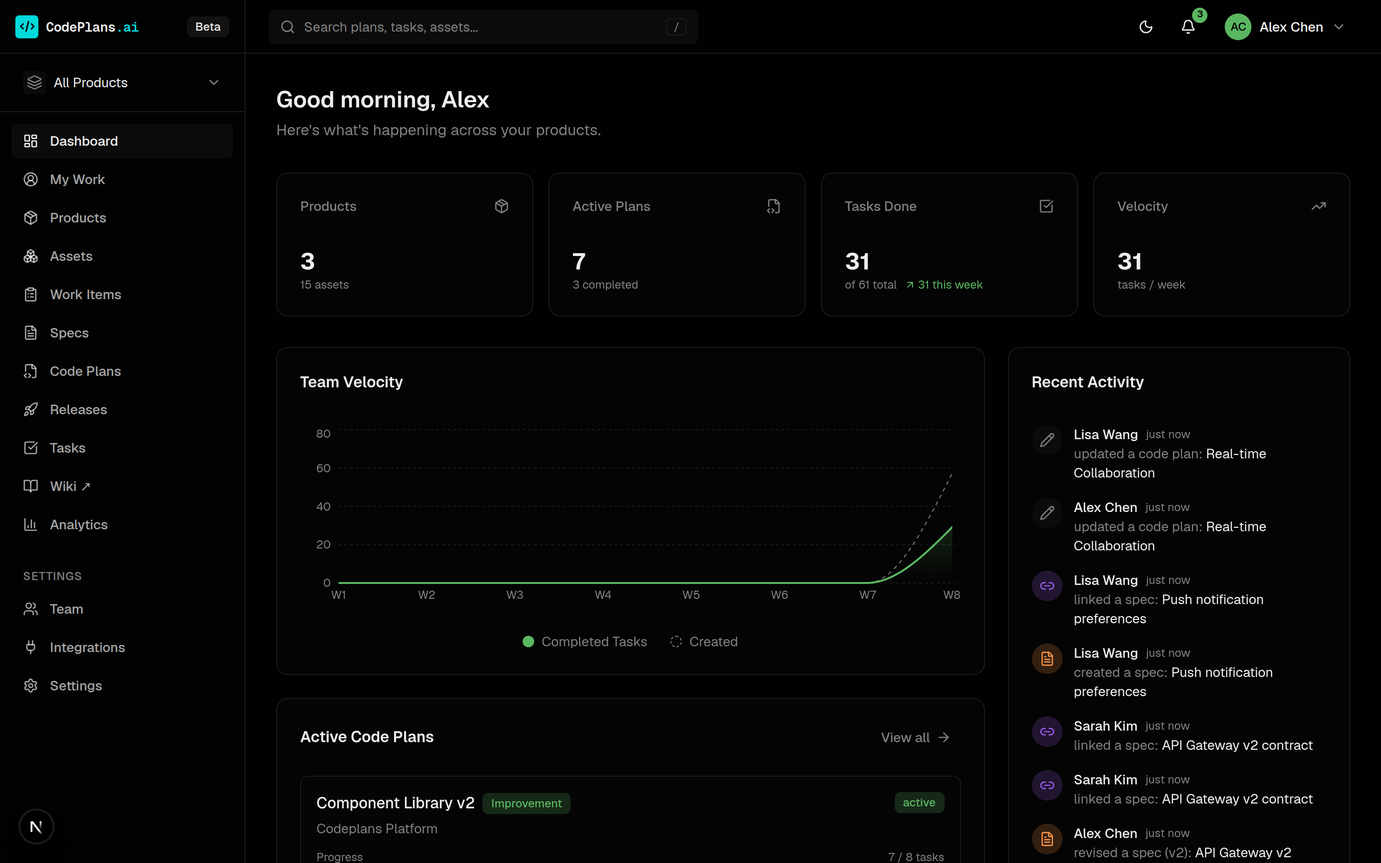
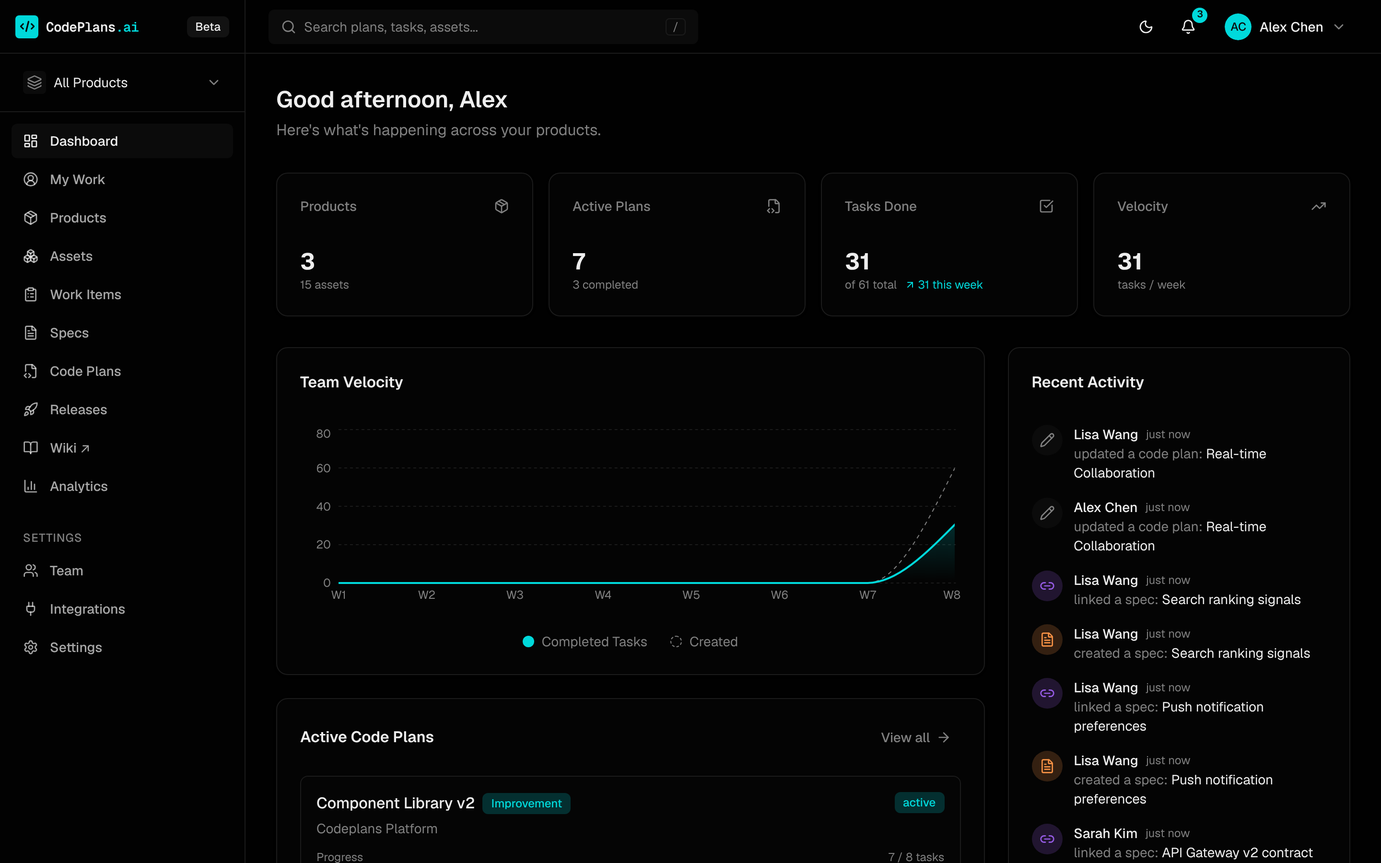
Docs site: search, agent skills, password resets; refresh key screenshots
Brings the GitHub Pages site up to date with what shipped since 10 October:

- Overview: a Search section (palette on / or Cmd-K, results page, the
  search MCP tool) with a new screenshot; the dashboard hero is retaken
  with the teal accent.
- AI agents: an Agent skills section with both install paths (Claude Code
  plugin, npx skills add) and what each skill does; search in the tools.
- Self-host: a Signing in panel (8-character minimum, forgot password,
  sign-out everywhere on a password change) with the new sign-in page; the
  AUTH_URL row explains AUTH_TRUST_HOST for several domains; RESEND_API_KEY
  lists what it sends. The first-run setup screenshot is retaken.
- Deploy: troubleshooting for several domains and for being signed out
  after a password change.
- Docs: an Agent Skills guide card and roadmap rows for search, agent
  skills and password resets.
- The MCP server has 75 tools since search; the site, README, AI agents
  guide and concepts guide said 74.

Claude-Session: https://claude.ai/code/session_01S4TnKMMhfyax9SrxJkMcDM

diff --git a/docs/index.html b/docs/index.html
@@ -44,7 +44,8 @@
 <div class="loop"><div class="loop-step"><h3>Capture demand</h3><p>Features, bugs and debt land on the assets they touch, natively or mirrored from your tracker.</p><a href="plan.html">Work items →</a></div><div class="loop-step"><h3>Plan the change</h3><p>A code plan targets assets, links the specs it builds on, and breaks into tasks.</p><a href="plan.html">Code plans →</a></div><div class="loop-step"><h3>Review before effort</h3><p>Code owners and architects approve the plan and its specs at a pinned version.</p><a href="reviews.html">Reviews →</a></div><div class="loop-step"><h3>Deliver and ship</h3><p>PRs, tasks and releases track delivery; each shipped capability records the spec version it implemented.</p><a href="assets.html">Asset record →</a></div><div class="loop-step"><h3>Keep people in the loop</h3><p>My Work, the bell, email and Slack tell each person what needs them, and why.</p><a href="my-work.html">My Work →</a></div></div></div></section><section class="section"><div class="container"><div class="section-label">Explore</div>
 <h2>What's inside</h2>
 <p class="section-sub">Screenshots throughout come from the demo workspace (<code>pnpm db:seed-demo</code>). Click any screenshot to see it full size.</p>
-<div class="explore-grid"><a class="explore-card" href="plan.html"><img src="screenshots/plans.png" alt="" loading="lazy" width="1440" height="900"><div class="body"><div class="tag">Plan & deliver</div><h3>Plans, work items and releases</h3><p>Coordinate changes across assets, track the demand behind them, and ship them together with per-asset versions.</p><div class="go">Explore →</div></div></a><a class="explore-card" href="assets.html"><img src="screenshots/asset-map.png" alt="" loading="lazy" width="1440" height="900"><div class="body"><div class="tag">Assets</div><h3>The Atlas and the asset record</h3><p>A live system map, a version-structured history and a capabilities register built from delivered work.</p><div class="go">Explore →</div></div></a><a class="explore-card" href="specs.html"><img src="screenshots/spec-history.png" alt="" loading="lazy" width="1440" height="900"><div class="body"><div class="tag">Specs & Wiki</div><h3>Versioned specs and a product wiki</h3><p>Author specs in CodePlans, see every revision and diff, and read the whole product as a connected library.</p><div class="go">Explore →</div></div></a><a class="explore-card" href="reviews.html"><img src="screenshots/spec-review.png" alt="" loading="lazy" width="1440" height="900"><div class="body"><div class="tag">Reviews</div><h3>Reviews, comments and responsibilities</h3><p>Code owners review plans before effort starts. Approvals pin to a version, and discussion anchors to the text.</p><div class="go">Explore →</div></div></a><a class="explore-card" href="my-work.html"><img src="screenshots/my-work.png" alt="" loading="lazy" width="1440" height="900"><div class="body"><div class="tag">My Work</div><h3>My Work and notifications</h3><p>An inbox shaped by your responsibilities, a bell, and email or Slack delivery your admins control.</p><div class="go">Explore →</div></div></a><a class="explore-card" href="agents.html"><img src="screenshots/asset-record.png" alt="" loading="lazy" width="1440" height="900"><div class="body"><div class="tag">AI agents</div><h3>Built for coding agents</h3><p>An MCP server with 74 tools: agents read the map, write the record, and join reviews and discussion.</p><div class="go">Explore →</div></div></a></div></div></section><section class="section"><div class="container"><div class="section-label">Get started</div>
+<div class="explore-grid"><a class="explore-card" href="plan.html"><img src="screenshots/plans.png" alt="" loading="lazy" width="1440" height="900"><div class="body"><div class="tag">Plan & deliver</div><h3>Plans, work items and releases</h3><p>Coordinate changes across assets, track the demand behind them, and ship them together with per-asset versions.</p><div class="go">Explore →</div></div></a><a class="explore-card" href="assets.html"><img src="screenshots/asset-map.png" alt="" loading="lazy" width="1440" height="900"><div class="body"><div class="tag">Assets</div><h3>The Atlas and the asset record</h3><p>A live system map, a version-structured history and a capabilities register built from delivered work.</p><div class="go">Explore →</div></div></a><a class="explore-card" href="specs.html"><img src="screenshots/spec-history.png" alt="" loading="lazy" width="1440" height="900"><div class="body"><div class="tag">Specs & Wiki</div><h3>Versioned specs and a product wiki</h3><p>Author specs in CodePlans, see every revision and diff, and read the whole product as a connected library.</p><div class="go">Explore →</div></div></a><a class="explore-card" href="reviews.html"><img src="screenshots/spec-review.png" alt="" loading="lazy" width="1440" height="900"><div class="body"><div class="tag">Reviews</div><h3>Reviews, comments and responsibilities</h3><p>Code owners review plans before effort starts. Approvals pin to a version, and discussion anchors to the text.</p><div class="go">Explore →</div></div></a><a class="explore-card" href="my-work.html"><img src="screenshots/my-work.png" alt="" loading="lazy" width="1440" height="900"><div class="body"><div class="tag">My Work</div><h3>My Work and notifications</h3><p>An inbox shaped by your responsibilities, a bell, and email or Slack delivery your admins control.</p><div class="go">Explore →</div></div></a><a class="explore-card" href="agents.html"><img src="screenshots/asset-record.png" alt="" loading="lazy" width="1440" height="900"><div class="body"><div class="tag">AI agents</div><h3>Built for coding agents</h3><p>An MCP server with 75 tools: agents read the map, write the record, and join reviews and discussion.</p><div class="go">Explore →</div></div></a></div></div></section><section class="section"><div class="container"><div class="feature-row" style="border-top:0;padding:0"><div class="row-text"><div class="section-label">Search</div><h2>Find anything in a keystroke</h2><p>Press <code>/</code> or <code>⌘K</code> anywhere to search products, assets, plans, tasks, work items, specs and releases across every product you can see. Every word must match; quote a phrase to keep it together.</p><p><strong>See all results</strong> opens a full page with counts and a tab per type, and agents get the same search as the <code>search</code> MCP tool.</p></div><div class="row-media"><figure class="shot "><a href="screenshots/search.png" aria-label="Open full size: The search palette showing an asset, a plan, a task, work items and a spec matching auth"><img src="screenshots/search.png" alt="The search palette showing an asset, a plan, a task, work items and a spec matching auth" width="2880" height="1800" loading="lazy"></a></figure></div></div></div></section>
+<section class="section"><div class="container"><div class="section-label">Get started</div>
 <h2>Up and running in minutes</h2>
 <p class="section-sub">Local SQLite mode needs no cloud account and no API keys.</p>
 <div class="code-block">

diff --git a/docs/agents.html b/docs/agents.html
@@ -4,7 +4,7 @@
   <meta charset="UTF-8" />
   <meta name="viewport" content="width=device-width, initial-scale=1.0" />
   <title>CodePlans — AI agents</title>
-  <meta name="description" content="The CodePlans MCP server: 74 tools for coding agents." />
+  <meta name="description" content="The CodePlans MCP server: 75 tools for coding agents." />
   <link rel="stylesheet" href="assets/site.css" />
 </head>
 <body>
@@ -18,10 +18,10 @@
     </div>
   </div>
 </nav>
-<section class="page-hero"><div class="container"><div class="crumb"><a href="index.html">CodePlans</a> / AI agents</div><h1>The system of record your coding agents read — and write</h1><p class="hero-sub">CodePlans records what shipped, where and why. Connect a coding agent over MCP (74 tools) and the record builds itself as the work happens.</p><div class="links"><a href="https://github.com/SylonZero/CodePlans/blob/master/docs/guides/ai-agents.md">AI agents guide</a><a href="https://github.com/SylonZero/CodePlans/blob/master/docs/specs/mcp-server-spec.md">MCP server spec</a></div></div></section>
+<section class="page-hero"><div class="container"><div class="crumb"><a href="index.html">CodePlans</a> / AI agents</div><h1>The system of record your coding agents read — and write</h1><p class="hero-sub">CodePlans records what shipped, where and why. Connect a coding agent over MCP (75 tools) and the record builds itself as the work happens.</p><div class="links"><a href="https://github.com/SylonZero/CodePlans/blob/master/docs/guides/ai-agents.md">AI agents guide</a><a href="https://github.com/SylonZero/CodePlans/blob/master/docs/specs/mcp-server-spec.md">MCP server spec</a></div></div></section>
 <main>
 <section class="section"><div class="container"><div class="feature-grid">
-  <div class="feature-card"><div class="feature-icon" style="background:rgba(96,165,250,.12)">📖</div><h3>Agents read the map</h3><p>Before touching an asset, an agent pulls its history, open debt, dependencies, active specs and delivery coverage. <code>get_asset_record</code> separates current intent from delivered capabilities.</p></div>
+  <div class="feature-card"><div class="feature-icon" style="background:rgba(96,165,250,.12)">📖</div><h3>Agents read the map</h3><p>Before touching an asset, an agent pulls its history, open debt, dependencies, active specs and delivery coverage. <code>get_asset_record</code> separates current intent from delivered capabilities, and <code>search</code> finds any product, asset, plan, task, work item, spec or release by text.</p></div>
   <div class="feature-card"><div class="feature-icon" style="background:rgba(251,146,60,.12)">✍</div><h3>Agents write the record</h3><p>As plans complete, agents mark tasks done, update branch and PR status, file the debt they discover, and record a design note on each asset they changed, with an agent badge.</p></div>
   <div class="feature-card"><div class="feature-icon" style="background:rgba(74,222,128,.12)">💬</div><h3>Agents join the loop</h3><p>Agents request reviews, read and add comments, and start a session with <code>get_my_work</code>: "what's waiting on me?". There is deliberately no tool to approve a review.</p></div>
   <div class="feature-card"><div class="feature-icon" style="background:rgba(167,139,250,.12)">📝</div><h3>AI drafts, humans decide</h3><p>With an Anthropic API key configured, CodePlans drafts release notes and design notes from delivered work. Drafts always land in an editor; nothing is auto-published.</p></div>
@@ -32,7 +32,25 @@
   <div><span class="cmd">claude mcp add</span> <span class="arg">--transport http codeplans http://localhost:3000/api/mcp/mcp \</span></div>
   <div><span class="arg">&nbsp;&nbsp;--header "Authorization: Bearer cpk_your_key"</span></div>
 </div>
-<p style="margin-top:16px">See the <a href="https://github.com/SylonZero/CodePlans/blob/master/docs/guides/ai-agents.md">AI agents guide</a> for the 74-tool catalog, and the <a href="https://github.com/SylonZero/CodePlans/blob/master/docs/guides/logging-work.md">/codeplans-log</a> and <a href="https://github.com/SylonZero/CodePlans/blob/master/docs/guides/capturing-docs.md">/codeplans-capture</a> skills.</p></div></section>
+<p style="margin-top:16px">See the <a href="https://github.com/SylonZero/CodePlans/blob/master/docs/guides/ai-agents.md">AI agents guide</a> for the 75-tool catalog and the recommended agent workflows.</p></div></section><section class="section"><div class="container"><div class="section-label">Agent skills</div><h2>Teach your agent the workflows</h2>
+<p class="section-sub">CodePlans publishes agent skills: short instructions that turn its workflows into one-line requests like <em>log this in CodePlans</em>. In Claude Code, the plugin installs them and connects the MCP server; it asks for your CodePlans URL and an API key.</p>
+<div class="code-block">
+  <div><span class="comment"># Claude Code: skills and the MCP connection</span></div>
+  <div><span class="cmd">/plugin marketplace add</span> <span class="arg">SylonZero/CodePlans</span></div>
+  <div><span class="cmd">/plugin install</span> <span class="arg">codeplans@codeplans</span></div>
+  <br>
+  <div><span class="comment"># Any agent (Codex, Cursor, Copilot…): skills only</span></div>
+  <div><span class="cmd">npx skills add</span> <span class="arg">SylonZero/CodePlans</span></div>
+</div>
+<div class="feature-grid" style="margin-top:24px">
+  <div class="feature-card"><h3>/codeplans-context</h3><p>Before a change: owners, dependents, history, design notes, specs, debt and open issues for the assets involved.</p></div>
+  <div class="feature-card"><h3>/codeplans-log</h3><p>After a session: the plan, tasks, branch and PR status, and the debt and follow-ups found along the way.</p></div>
+  <div class="feature-card"><h3>/codeplans-spec</h3><p>Read, write, revise or supersede a spec and link it to the assets, work items and plans it governs.</p></div>
+  <div class="feature-card"><h3>/codeplans-close-plan</h3><p>Complete a plan, record design notes on the changed assets, and graduate delivered features into the asset record.</p></div>
+  <div class="feature-card"><h3>/codeplans-release</h3><p>Create a release, attach its plans, stamp asset versions and ship it.</p></div>
+  <div class="feature-card"><h3>/codeplans-model, /codeplans-capture, /codeplans-my-work</h3><p>Model a repo as assets, import an existing docs folder, and see what's waiting on you.</p></div>
+</div>
+<p style="margin-top:16px">See the <a href="https://github.com/SylonZero/CodePlans/blob/master/docs/guides/agent-skills.md">agent skills guide</a>. Skills that write ask before anything people would want to check: completing a plan, shipping a release, or writing a proposed model.</p></div></section>
 </main>
 <div class="container"><div class="page-nav"><a href="my-work.html"><span>← Previous</span>My Work</a><a class="next" href="self-host.html"><span>Next →</span>Self-host</a></div></div>
 <footer>

diff --git a/docs/docs.html b/docs/docs.html
@@ -81,6 +81,12 @@
         <p>The conceptual map: what products, assets, plans, and releases are each <em>for</em>, the boundary rule between them, and the five design principles behind the tool.</p>
         <div class="doc-arrow">Read → </div>
       </a>
+      <a class="doc-card" href="https://github.com/SylonZero/CodePlans/blob/master/docs/guides/agent-skills.md">
+        <div class="doc-tag">Guide</div>
+        <h3>Agent Skills</h3>
+        <p>Install the CodePlans skills in Claude Code (a plugin that also connects the MCP server) or any agent with <code>npx skills add</code>, and what each skill does.</p>
+        <div class="doc-arrow">Read → </div>
+      </a>
       <a class="doc-card" href="https://github.com/SylonZero/CodePlans/blob/master/docs/guides/capturing-docs.md">
         <div class="doc-tag">Guide</div>
         <h3>Capturing a Docs Corpus</h3>
@@ -132,7 +138,7 @@
       <a class="doc-card" href="https://github.com/SylonZero/CodePlans/blob/master/docs/guides/ai-agents.md">
         <div class="doc-tag">Guide</div>
         <h3>Working with AI Agents</h3>
-        <p>Connect Claude Code, Cursor, and friends over MCP: the full 74-tool catalog, recommended agent workflows, and the AI drafting flags.</p>
+        <p>Connect Claude Code, Cursor, and friends over MCP: the full 75-tool catalog, recommended agent workflows, and the AI drafting flags.</p>
         <div class="doc-arrow">Read → </div>
       </a>
       <a class="doc-card" href="https://github.com/SylonZero/CodePlans/blob/master/docs/specs/native-spec-entity-v1.md">
@@ -229,7 +235,7 @@
           <tr><td>GitHub, GitLab, Jira, Asana &amp; Linear integrations (pull-only)</td><td><span class="status-pill done">Available</span></td></tr>
           <tr><td>Milestone-linked plans &amp; PR auto-linking</td><td><span class="status-pill done">Available</span></td></tr>
           <tr><td>Write-back: plan-completion comments on tracker issues</td><td><span class="status-pill done">Available</span></td></tr>
-          <tr><td>MCP server (Claude Code, Cursor, Codex, Copilot, Antigravity — API-key auth, 74 tools)</td><td><span class="status-pill done">Available</span></td></tr>
+          <tr><td>MCP server (Claude Code, Cursor, Codex, Copilot, Antigravity — API-key auth, 75 tools)</td><td><span class="status-pill done">Available</span></td></tr>
           <tr><td>Releases — delivery grouping with per-asset version stamps &amp; derived release notes</td><td><span class="status-pill done">Available</span></td></tr>
           <tr><td>Asset history timeline, version ladder &amp; design log (user + agent authored)</td><td><span class="status-pill done">Available</span></td></tr>
           <tr><td>AI drafting — release notes &amp; design notes (feature-flagged)</td><td><span class="status-pill done">Available</span></td></tr>
@@ -243,6 +249,7 @@
           <tr><td>Legacy URL import — dry-run preview, deduplication, SQLite &amp; PostgreSQL migrations</td><td><span class="status-pill done">Available</span></td></tr>
           <tr><td>Shared GFM rendering — paragraphs, line breaks, tables &amp; task lists</td><td><span class="status-pill done">Available</span></td></tr>
           <tr><td>Write permissions enforced for viewers; admin-only invites and integrations</td><td><span class="status-pill done">Available</span></td></tr><tr><td>Spec revision history with read-only versions and diffs</td><td><span class="status-pill done">Available</span></td></tr><tr><td>Responsibilities: engineering managers, architects (by area) and code owners</td><td><span class="status-pill done">Available</span></td></tr><tr><td>Plan and spec reviews pinned to a version, Open/Guided workflows</td><td><span class="status-pill done">Available</span></td></tr><tr><td>Threaded, anchored comments with @mentions</td><td><span class="status-pill done">Available</span></td></tr><tr><td>My Work inbox with lenses and evidence gaps; notification bell</td><td><span class="status-pill done">Available</span></td></tr><tr><td>Email (Resend) and Slack webhook notifications with per-event rules, opt-outs and mutes</td><td><span class="status-pill done">Available</span></td></tr><tr><td>AI-assisted effort estimation</td><td><span class="status-pill plan">Planned</span></td></tr>
+          <tr><td>Global search — palette (<code>/</code> or ⌘K), results page &amp; <code>search</code> MCP tool</td><td><span class="status-pill done">Available</span></td></tr><tr><td>Agent skills — Claude Code plugin &amp; <code>npx skills add</code></td><td><span class="status-pill done">Available</span></td></tr><tr><td>Forgot password, and sign-out everywhere on a password change</td><td><span class="status-pill done">Available</span></td></tr>
         </tbody>
       </table>
     </div>

diff --git a/docs/self-host.html b/docs/self-host.html
@@ -112,6 +112,7 @@
     <div class="section-label">Configuration</div>
     <h2>Accounts &amp; environment variables</h2>
     <p class="section-sub">An instance is one workspace with its own email and password accounts. <code>REGISTRATION</code> decides how people get in.</p>
+    <div class="feature-row" style="border-top:0;padding-top:0;margin-bottom:16px"><div class="row-text"><h3 style="margin-bottom:8px">Signing in</h3><p>Passwords are at least 8 characters, stored as bcrypt hashes. <strong>Forgot password?</strong> on the sign-in page emails a link to choose a new one; it works once, for an hour, and the page answers the same whether or not the address has an account. Without <code>RESEND_API_KEY</code> the link is written to the server log for whoever runs the instance.</p><p>Changing or resetting a password signs that account out everywhere else, so a lost laptop or a leaked session stops working at once.</p></div><div class="row-media"><figure class="shot "><a href="screenshots/signin.png" aria-label="Open full size: The sign-in page"><img src="screenshots/signin.png" alt="The sign-in page" width="2880" height="1800" loading="lazy"></a></figure></div></div>
 
     <div class="config-grid">
       <div class="config-card">
@@ -179,7 +180,7 @@
           <tr>
             <td class="env-var">AUTH_URL</td>
             <td class="env-default">detected</td>
-            <td class="env-desc">Public URL of the server. Detected on Railway, Fly.io and Render; set it for custom domains and other hosts. Not needed for <code>localhost</code> dev.</td>
+            <td class="env-desc">Public URL of the server. Detected on Railway, Fly.io and Render; set it for custom domains and other hosts. Not needed for <code>localhost</code> dev. To serve several domains, leave it unset and set <code>AUTH_TRUST_HOST=true</code>: each request's host is used instead.</td>
           </tr>
           <tr>
             <td class="env-var">ADMIN_EMAIL / ADMIN_PASSWORD</td>
@@ -204,7 +205,7 @@
           <tr>
             <td class="env-var">RESEND_API_KEY</td>
             <td class="env-default">—</td>
-            <td class="env-desc">Resend API key for transactional email and the fallback notification channel. Without this, verification URLs are logged to the server console — fine for local dev.</td>
+            <td class="env-desc">Resend API key for invites, password resets, email changes and the fallback notification channel. Without this, those links are logged to the server console — fine for local dev.</td>
           </tr>
           <tr>
             <td class="env-var">RESEND_FROM_EMAIL</td>

diff --git a/docs/deploy.html b/docs/deploy.html
@@ -155,7 +155,8 @@
       <div><h3>"…is not on a persistent volume"</h3><p>The service is on SQLite without a volume, so CodePlans refuses to start rather than lose your data on the next deploy. Attach a volume at <code>/data</code> (the log names the exact path), or switch to Postgres.</p></div>
       <div><h3>No [setup] line in the logs</h3><p>It only appears while the instance has no accounts. If someone already claimed it, sign in instead. Otherwise restart or redeploy the service and look again.</p></div>
       <div><h3>The health check keeps failing</h3><p>Look further up the log. A failed migration or a missing <code>AUTH_SECRET</code> on Postgres stops the server on purpose and says why. The previous deploy keeps running meanwhile.</p></div>
-      <div><h3>Sign-in fails on a custom domain</h3><p>Set <code>AUTH_URL</code> to the public address, e.g. <code>https://codeplans.yourteam.com</code>. Platform domains are detected automatically.</p></div>
+      <div><h3>Sign-in fails on a custom domain</h3><p>Set <code>AUTH_URL</code> to the public address, e.g. <code>https://codeplans.yourteam.com</code>. Platform domains are detected automatically. Serving more than one domain? Leave <code>AUTH_URL</code> unset and set <code>AUTH_TRUST_HOST=true</code>.</p></div>
+      <div><h3>Signed out everywhere</h3><p>Expected after a password change or reset: every other session of that account ends. Sign in again with the new password.</p></div>
       <div><h3>Someone can't sign up</h3><p>That's the invite-only default. Invite them from the <strong>Team</strong> page, or set <code>REGISTRATION=open</code> to let anyone who can reach the server join.</p></div>
       <div><h3>Every setting</h3><p>The <a href="self-host.html#config">self-host page</a> and the <a href="https://github.com/SylonZero/CodePlans/blob/master/docs/guides/deploying.md">deployment guide</a> list every environment variable, backups and health checks.</p></div>
     </div>

diff --git a/README.md b/README.md
@@ -7,7 +7,7 @@
 [![Tailwind CSS](https://img.shields.io/badge/Tailwind_CSS-v4-38BDF8?logo=tailwindcss&logoColor=white)](https://tailwindcss.com)
 [![Tests](https://img.shields.io/badge/Tests-483_passing-brightgreen?logo=vitest&logoColor=white)](tests/)
 [![CI](https://github.com/SylonZero/CodePlans/actions/workflows/test.yml/badge.svg)](https://github.com/SylonZero/CodePlans/actions/workflows/test.yml)
-[![MCP tools](https://img.shields.io/badge/MCP-74_tools-8B5CF6)](docs/guides/ai-agents.md)
+[![MCP tools](https://img.shields.io/badge/MCP-75_tools-8B5CF6)](docs/guides/ai-agents.md)
 [![Docs](https://img.shields.io/badge/Docs-GitHub_Pages-4ade80)](https://sylonzero.github.io/CodePlans)
 [![Deploy](https://img.shields.io/badge/Deploy-Railway_%7C_Fly.io_%7C_Docker-0B0D0E?logo=docker&logoColor=white)](docs/guides/deploying.md)
 
@@ -103,7 +103,7 @@ See the [reviews guide](docs/guides/reviews-and-comments.md), [My Work guide](do
 | Analytics wired to real data (velocity, effort accuracy, debt by product) | ✅ Available |
 | Activity feed | ✅ Available |
 | GitHub, GitLab, Jira, Asana & Linear integrations (pull-only mirror into work items) | ✅ Available |
-| MCP server — 74 tools incl. native specs with version history, reviews & comments, responsibilities, product/asset/dependency management, model refactoring (move_asset), releases, design notes & the asset record | ✅ Available |
+| MCP server — 75 tools incl. text search, native specs with version history, reviews & comments, responsibilities, product/asset/dependency management, model refactoring (move_asset), releases, design notes & the asset record | ✅ Available |
 | Milestone-linked plans with mirrored tasks (mixed mode) | ✅ Available |
 | PR auto-linking (plan-asset PR status refreshed on sync) | ✅ Available |
 | Releases — delivery grouping with per-asset version stamps & derived release notes | ✅ Available |
@@ -153,7 +153,8 @@ else gets in:
 **Forgot password** on the sign-in page emails a link to choose a new
 password. It works once, for one hour, and the page answers the same whether
 or not the address has an account. Without `RESEND_API_KEY` the link is
-written to the server log instead, for whoever runs the instance.
+written to the server log instead, for whoever runs the instance. Changing
+or resetting a password signs that account out everywhere else.
 
 Commercial/hosted-only features are built as an optional private module the
 app loads at startup, never as forked or hidden code in this repo. See the

diff --git a/docs/guides/concepts.md b/docs/guides/concepts.md
@@ -117,7 +117,7 @@ events. Shipped releases become read-only, because the record of what shipped
 must stay trustworthy. Corrections reopen deliberately.
 
 **4. Agents are first-class users.** Everything the UI can do to the model,
-the MCP server exposes — currently 74 tools, with the same access rules and
+the MCP server exposes — currently 75 tools, with the same access rules and
 guardrails enforced at the tool layer (shipped releases reject mutation,
 mirrored items reject writes to tracker-owned fields). Modeling guidance
 ships *inside* the tools (`get_modeling_guide`, and heuristics in tool

diff --git a/docs/guides/ai-agents.md b/docs/guides/ai-agents.md
@@ -29,7 +29,7 @@ the server and adds the CodePlans [agent skills](agent-skills.md):
 `/plugin marketplace add SylonZero/CodePlans`, then
 `/plugin install codeplans@codeplans`.
 
-## The tool catalog (74 tools)
+## The tool catalog (75 tools)
 
 **Read** (any key):
 
